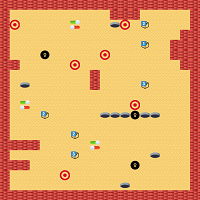
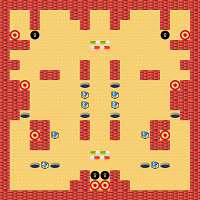
menü átszerkesztése, pályák javítása

diff --git a/src/therfc/res/Resources.java b/src/therfc/res/Resources.java
@@ -39,6 +39,11 @@ public class Resources {
     public static BufferedImage Level1;
     public static BufferedImage Level2;
     public static BufferedImage Level3;
+    public static BufferedImage Level4;
+    public static BufferedImage Level5;
+    public static BufferedImage Level6;
+    public static BufferedImage Level7;
+
 
 
 
@@ -46,7 +51,13 @@ public class Resources {
     public static File Level_1_map;
     public static File Level_2_map;
     public static File Level_3_map;
+    public static File Level_4_map;
+    public static File Level_5_map;
+    public static File Level_6_map;
+    public static File Level_7_map;
+
     public static File test;
+
 
     public static  void load() throws IOException, UnsupportedAudioFileException {
         //képek
@@ -81,12 +92,20 @@ public class Resources {
         Level1 = ImageIO.read(new File("src\\therfc\\res\\images\\level1.png"));
         Level2 = ImageIO.read(new File("src\\therfc\\res\\images\\level2.png"));
         Level3 = ImageIO.read(new File("src\\therfc\\res\\images\\level3.png"));
+        Level4 = ImageIO.read(new File("src\\therfc\\res\\images\\level4.png"));
+        Level5 = ImageIO.read(new File("src\\therfc\\res\\images\\level5.png"));
+        Level6 = ImageIO.read(new File("src\\therfc\\res\\images\\level6.png"));
+        Level7 = ImageIO.read(new File("src\\therfc\\res\\images\\level7.png"));
 
 
         //pályák
         Level_1_map = new File("src\\therfc\\res\\levels\\level1.txt");
         Level_2_map = new File("src\\therfc\\res\\levels\\level2.txt");
         Level_3_map = new File("src\\therfc\\res\\levels\\level3.txt");
+        Level_4_map = new File("src\\therfc\\res\\levels\\level4.txt");
+        Level_5_map = new File("src\\therfc\\res\\levels\\level5.txt");
+        Level_6_map = new File("src\\therfc\\res\\levels\\level6.txt");
+        Level_7_map = new File("src\\therfc\\res\\levels\\level7.txt");
         test = new File("src\\therfc\\res\\levels\\level_test.txt");
     }
 

diff --git a/src/therfc/bin/UI/frames/MenuFrame.java b/src/therfc/bin/UI/frames/MenuFrame.java
@@ -68,7 +68,7 @@ public class MenuFrame extends JFrame {
 
         felso.add(lbl);
 
-        String[] levels = { "Level 1","Level 2", "Level 3","Level 4","Level 5","Level 6"};
+        String[] levels = { "Level 1","Level 2", "Level 3","Level 4","Level 5","Level 6","Level 7"};
 
         final JComboBox<String> cb = new JComboBox<String>(levels);
 
@@ -89,6 +89,22 @@ public class MenuFrame extends JFrame {
                     case 3:
                         img = Resources.Level3;
                         level = Resources.Level_3_map;
+                        break;
+                    case 4:
+                        img = Resources.Level4;
+                        level = Resources.Level_4_map;
+                        break;
+                    case 5:
+                        img = Resources.Level5;
+                        level = Resources.Level_5_map;
+                        break;
+                    case 6:
+                        img = Resources.Level6;
+                        level = Resources.Level_6_map;
+                        break;
+                    case 7:
+                        img = Resources.Level7;
+                        level = Resources.Level_7_map;
                         break;
                     default:
                         img = Resources.Level1;
